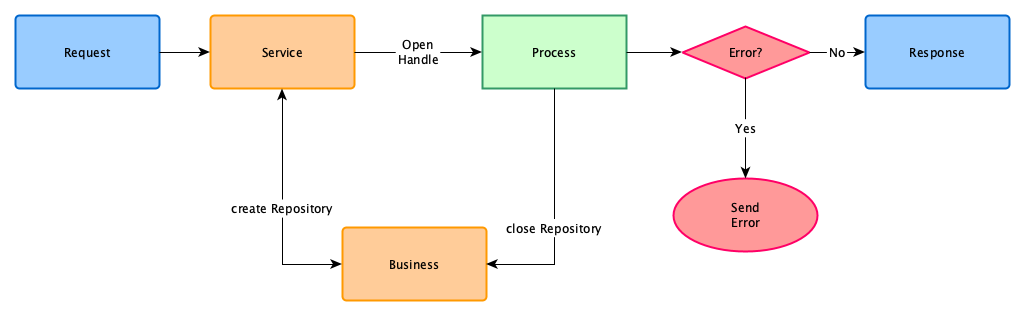
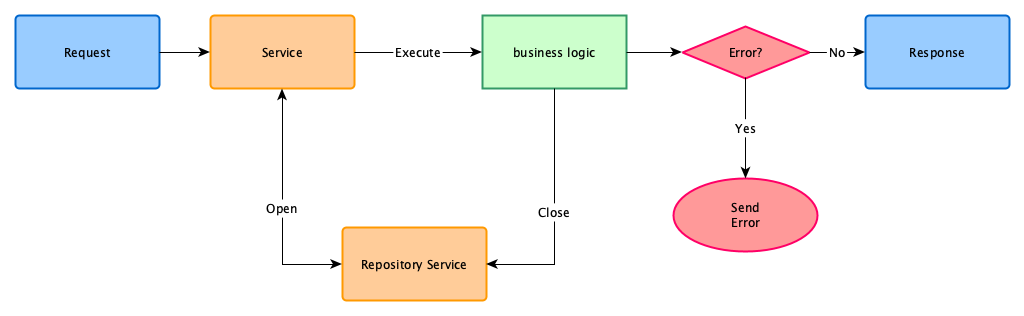
Update readme
fixed the spelling
fixed the docker description
update the request cycle

diff --git a/readme.md b/readme.md
@@ -68,7 +68,7 @@ The Mysql / MariaDB database engine is running in docker container instance. The
 
 | Name                       | Description
 |----------------------------|------------------------------------------
-| `docker-compose.yml`       | The docker compose for the mysql database- and phpMyAdmin image.<br>It is depend on the file `docker.env`.
+| `docker-compose.yml`       | The docker compose for the mysql database- and phpMyAdmin image.<br>It is depend on the file `docker-compose.env`.
 | `docker.compose.env`       | The environment variables for the mysql server.
 | `docker/db`                | The docker directory with the mysql configuration
 | `docker/db/Dockerfile`     | The MySQL Docker file.
@@ -105,7 +105,7 @@ The application is managed via  **PM2** <https://pm2.keymetrics.io/docs/usage/pm
 
 ### PM2 Configuration
 
-PM2 is configured via a javascript config file. The file name must end with `config.js`.
+[PM2](PM2) is configured via a javascript config file. The file name must end with `config.js`.
 
 
 **An excerpt from the configuration**
@@ -173,8 +173,8 @@ export DB_PASSWORD=xxxx
 
 * A Request receives the backend controller
 * The controller forwards the request to the service
-* The service use the business to create a repository and process the specified steps and returns the response
-* The business service close the repository
+* The service use the repository service to open a repository pool and process the specified steps and returns the response
+* The business service close the repository pool
 * If no error has occurred the response will send to the client
 * In case of an error the error body will send to the client.
 
@@ -199,17 +199,15 @@ The roles are used to determine whether the user has the necessary rights to exe
 ```json
 {
   "id": 4711,
-  "device": 34948,
   "roles": ["read", "write", "admin"]
 }
 ```
 
 ### Authorisations
 
-A user must log in with his email and password. If both are correct, a device id is created and created together with
-the user's roles to an Authenticated User.
+A user must log in with his email and password. If both are correct, the user id and the user's roles are together the Authenticated User.
 
-This user is encrypted with a private key and can be decrypted with the public key in the authentication process.
+This auth user is encrypted with a private key and can be decrypted with the public key in the authentication process.
 
 
 #### Authentication
@@ -219,21 +217,17 @@ A logged in user is required in protected endpoints. The client must send this i
 In the middleware service, the authenticated user will extract from the header (*decrypted with the public key*) and checked
 with the included device whether the user still known and valid with his device.
 
-How long a user device is valid can be defined with the environment variable **AUTH_EXPIRES** (*the time unit is seconds*)
-
-If a user is no longer valid with his device, the user must log in again.
-
 If the check fails, a Http Status Code UNAUTHENTICATED is always sent.
 
 
 ### Access to AuthUser
 
-In the endpoint the decorator '@User' can be used.
+In the endpoint the decorator '@GetAuthUser' can be used.
 
 **Example**
 
-```js
-async getBookList(@GetAuthUser() authUser: AuthUser, @Param('authorId') authorId: number): Promise<Book[]> {}
+```ts
+async getBookList(@GetAuthUser() authUser: AuthUser, @Param('themeId') themeId: number): Promise<Book[]> {}
 ```
 
 
@@ -267,3 +261,4 @@ SOFTWARE.
 [NestJS]:https://nestjs.com/
 [Typescript]:https://www.typescriptlang.org/
 [OpenApiSpec]:https://www.openapis.org/
+[PM2]:https://pm2.keymetrics.io/
